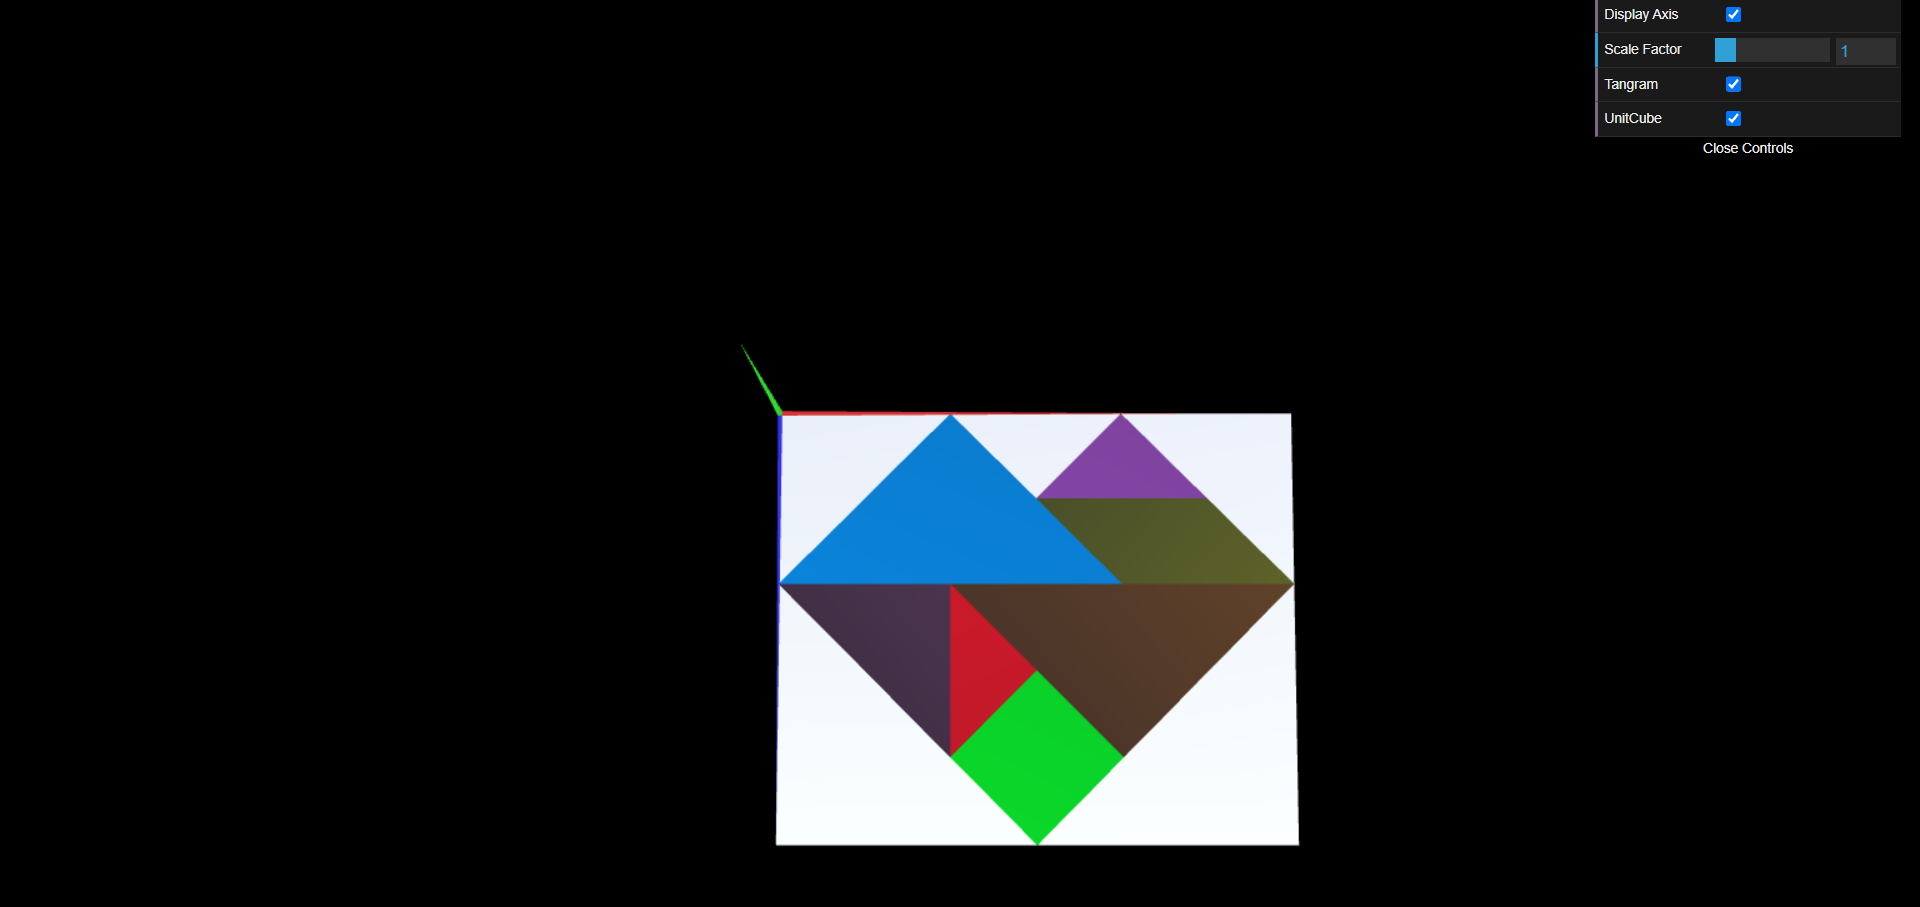
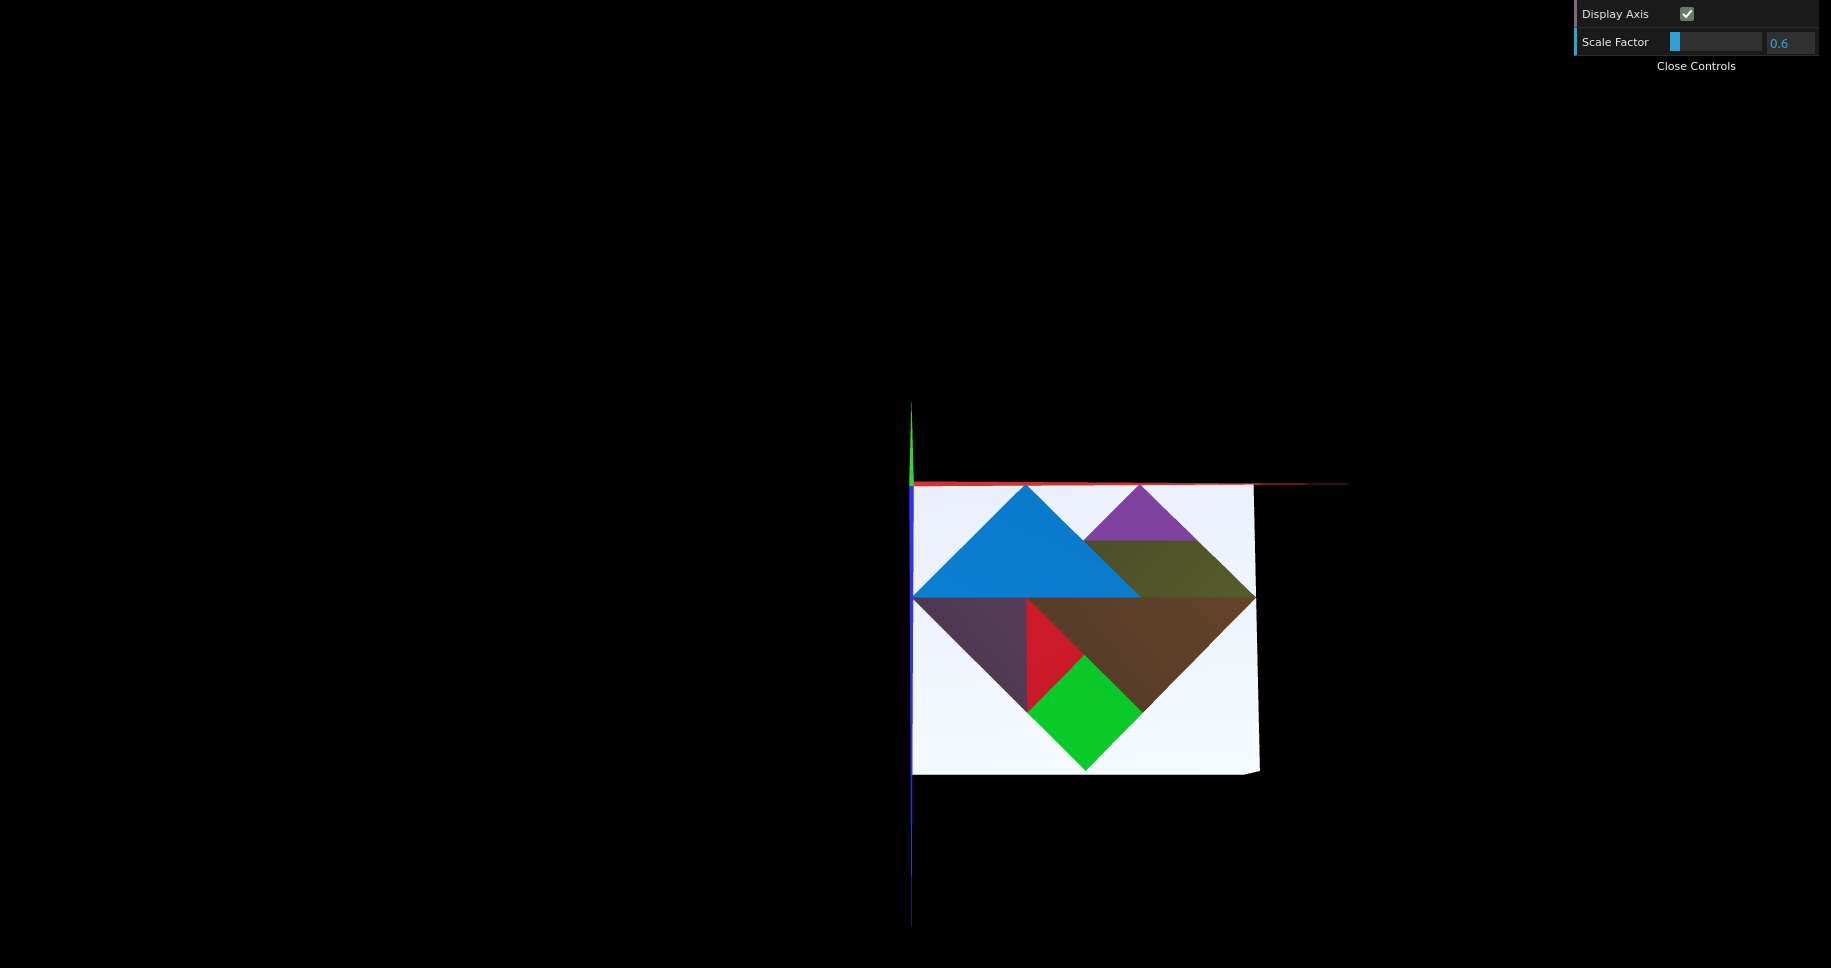
Minor changes to readme and removed checkboxes

Changed region(s): [[0.4047, 0.4322, 0.716, 0.957], [0.8094, 0.0, 0.9962, 0.1852]]

diff --git a/tp2/MyInterface.js b/tp2/MyInterface.js
@@ -23,8 +23,8 @@ export class MyInterface extends CGFinterface {
         //Slider element in GUI
         this.gui.add(this.scene, 'scaleFactor', 0.1, 5).name('Scale Factor');
 
-        this.gui.add(this.scene, 'displayTangram').name('Tangram');
-        this.gui.add(this.scene, 'displayUnitCube').name('UnitCube');
+        // this.gui.add(this.scene, 'displayTangram').name('Tangram');
+        // this.gui.add(this.scene, 'displayUnitCube').name('UnitCube');
 
         return true;
     }

diff --git a/tp2/MyScene.js b/tp2/MyScene.js
@@ -41,8 +41,8 @@ export class MyScene extends CGFscene {
 
     //Objects connected to MyInterface
     this.displayAxis = true;
-    this.displayTangram = true;
-    this.displayUnitCube = true;
+    // this.displayTangram = true;
+    // this.displayUnitCube = true;
     this.scaleFactor = 1;
     
   }

diff --git a/tp2/README.md b/tp2/README.md
@@ -6,7 +6,7 @@
 
 - In the first exercise we did the tangram atributed to our group, we worked with the figures from last tp overriding the display method on MyTangram and we applied translations, rotations and scalings to the figures in order to make the tangram. We also started using colors for each figure of the tangram. Overall we had no difficulties.
 
-- We corrected the file MyTangram from last exercise to use 'multMatrix' for the diamond instead of 'translate'. In the second exercise we started by creating a cube and we moved the tangram slightly in front of the cube, so it would be visible. Then we applied both a translation and a rotation to both the tangram and the cube so they would be parallel to the XZ axis.
+- We corrected the file MyTangram from last exercise to use 'multMatrix' for the diamond instead of 'translate'. In the second exercise we started by creating a cube and we moved the tangram slightly in front of the cube, so it would be visible. Then we applied both a translation and a rotation to both the tangram and the cube so they would be parallel to the XZ axis. Overall we had no difficulties.
 
 
 ![Screenshot 1](screenshots/cg-t06-g09-tp2-1.png)
